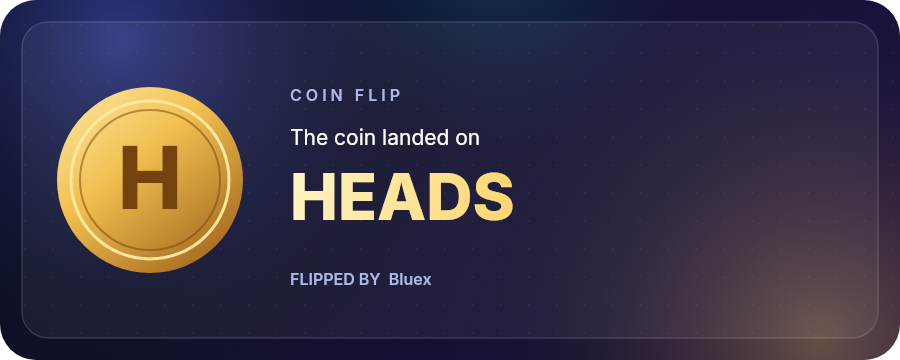
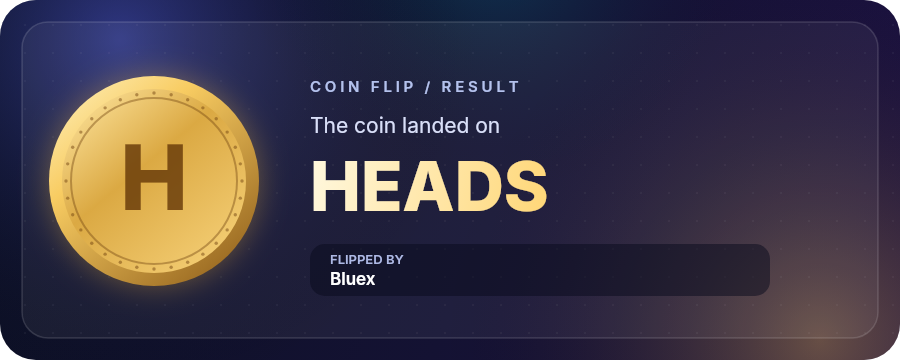
Polish coin flip card and use independent random draws

diff --git a/utils/cards.js b/utils/cards.js
@@ -449,17 +449,39 @@ async function coinFlipCard({ result, username, accent = '#ffc94d' }) {
   if (!canvasLib) return null;
   const canvas = canvasLib.createCanvas(W, H), ctx = canvas.getContext('2d');
   background(ctx, accent);
-  const coin = ctx.createLinearGradient(50, 70, 220, 280);
-  coin.addColorStop(0, '#fff1b3'); coin.addColorStop(0.45, '#f1c051'); coin.addColorStop(1, '#9b5e17');
-  ctx.beginPath(); ctx.arc(150, 180, 93, 0, Math.PI * 2); ctx.fillStyle = coin; ctx.fill();
-  ctx.beginPath(); ctx.arc(150, 180, 79, 0, Math.PI * 2); ctx.strokeStyle = '#ffe7a0'; ctx.lineWidth = 3; ctx.stroke();
-  ctx.beginPath(); ctx.arc(150, 180, 70, 0, Math.PI * 2); ctx.strokeStyle = 'rgba(116,65,13,0.5)'; ctx.lineWidth = 2; ctx.stroke();
-  ctx.textAlign = 'center'; ctx.textBaseline = 'middle'; ctx.fillStyle = '#75420e'; ctx.font = `86px "${FONT.bold}"`; ctx.fillText(result === 'Heads' ? 'H' : 'T', 150, 183); ctx.textAlign = 'left'; ctx.textBaseline = 'alphabetic';
-  ctx.fillStyle = '#aeb9e5'; ctx.font = `16px "${FONT.semi}"`; ctx.fillText('C O I N   F L I P', 290, 101);
-  ctx.fillStyle = '#ffffff'; ctx.font = `21px "${FONT.regular}"`; ctx.fillText('The coin landed on', 290, 145);
-  const gold = ctx.createLinearGradient(290, 160, 610, 225); gold.addColorStop(0, '#fff4c4'); gold.addColorStop(1, '#ffc94d');
-  ctx.fillStyle = gold; ctx.font = `64px "${FONT.bold}"`; ctx.fillText(fitText(ctx, result.toUpperCase(), 475), 290, 220);
-  ctx.fillStyle = '#aeb9e5'; ctx.font = `16px "${FONT.semi}"`; ctx.fillText(`FLIPPED BY  ${fitText(ctx, username, 350)}`, 290, 285);
+
+  // Polished gold coin with a shadow, bevel, dotted edge and distinct faces.
+  ctx.save();
+  ctx.shadowColor = 'rgba(255,190,55,0.34)'; ctx.shadowBlur = 30;
+  ctx.beginPath(); ctx.arc(154, 181, 105, 0, Math.PI * 2);
+  const edge = ctx.createLinearGradient(55, 70, 235, 285);
+  edge.addColorStop(0, '#fff3c2'); edge.addColorStop(0.35, '#f8cc62'); edge.addColorStop(1, '#91601b');
+  ctx.fillStyle = edge; ctx.fill(); ctx.restore();
+
+  ctx.beginPath(); ctx.arc(154, 181, 92, 0, Math.PI * 2);
+  const face = ctx.createLinearGradient(70, 90, 220, 270);
+  face.addColorStop(0, '#ffe7a2'); face.addColorStop(0.45, '#dba943'); face.addColorStop(1, '#f5cf76');
+  ctx.fillStyle = face; ctx.fill();
+  ctx.beginPath(); ctx.arc(154, 181, 83, 0, Math.PI * 2); ctx.strokeStyle = 'rgba(115,70,16,0.42)'; ctx.lineWidth = 2; ctx.stroke();
+  ctx.fillStyle = 'rgba(110,65,15,0.48)';
+  for (let i = 0; i < 32; i++) {
+    const angle = (i * Math.PI * 2) / 32;
+    ctx.beginPath(); ctx.arc(154 + Math.cos(angle) * 88, 181 + Math.sin(angle) * 88, 1.7, 0, Math.PI * 2); ctx.fill();
+  }
+
+  // Letters make both sides unambiguous even when the image is displayed small.
+  ctx.fillStyle = 'rgba(102,57,9,0.82)'; ctx.textAlign = 'center'; ctx.textBaseline = 'middle';
+  ctx.font = `91px "${FONT.bold}"`; ctx.fillText(result === 'Heads' ? 'H' : 'T', 154, 183);
+  ctx.textAlign = 'left'; ctx.textBaseline = 'alphabetic';
+
+  // Result panel: the displayed result always comes from the single toss.
+  ctx.fillStyle = '#b4c2ed'; ctx.font = `15px "${FONT.semi}"`; ctx.fillText('C O I N   F L I P   /   R E S U L T', 310, 92);
+  ctx.fillStyle = '#d9dff8'; ctx.font = `21px "${FONT.regular}"`; ctx.fillText('The coin landed on', 310, 133);
+  const gold = ctx.createLinearGradient(310, 150, 650, 218); gold.addColorStop(0, '#fff8de'); gold.addColorStop(1, '#ffc94d');
+  ctx.fillStyle = gold; ctx.font = `68px "${FONT.bold}"`; ctx.fillText(fitText(ctx, result.toUpperCase(), 460), 310, 211);
+  roundRect(ctx, 310, 244, 460, 52, 15); ctx.fillStyle = 'rgba(8,10,28,0.50)'; ctx.fill();
+  ctx.fillStyle = '#aeb9e5'; ctx.font = `13px "${FONT.semi}"`; ctx.fillText('FLIPPED BY', 330, 264);
+  ctx.fillStyle = '#ffffff'; ctx.font = `17px "${FONT.semi}"`; ctx.fillText(fitText(ctx, username, 400), 330, 285);
   return canvas.encode('png');
 }
 

diff --git a/tests/command-cards.test.js b/tests/command-cards.test.js
@@ -1,5 +1,6 @@
 const test = require('node:test');
 const assert = require('node:assert/strict');
+const crypto = require('node:crypto');
 const cards = require('../utils/cards');
 const db = require('../utils/db');
 const ltc = require('../utils/ltc');
@@ -65,17 +66,40 @@ test('/ltc price uses exactly the fetched rates in both card and embed', async (
   } finally { cards.available = previous.available; cards.ltcPriceCard = previous.fn; ltc.getRates = previous.rates; }
 });
 
-test('/fun coinflip uses the same single toss for card and text', async () => {
-  const previous = { available: cards.available, fn: cards.coinFlipCard, random: Math.random };
+test('/fun coinflip uses one independent toss for both the image and text', async () => {
+  const previous = { available: cards.available, fn: cards.coinFlipCard, randomInt: crypto.randomInt };
   let input, randomCalls = 0;
+  const draws = [0, 1, 1];
   try {
     cards.available = () => true; cards.coinFlipCard = async (data) => { input = data; return fakePng; };
-    Math.random = () => { randomCalls++; return 0.9; };
-    const i = interaction('coinflip'); await fun.execute(i);
-    assert.equal(randomCalls, 1); assert.equal(input.result, 'Tails');
-    assert.match(last(i).embeds[0].data.description, /Tails/);
-    assert.equal(last(i).embeds[0].data.image.url, 'attachment://coinflip.png');
-  } finally { cards.available = previous.available; cards.coinFlipCard = previous.fn; Math.random = previous.random; }
+    crypto.randomInt = (limit) => { assert.equal(limit, 2); randomCalls++; return draws.shift(); };
+    for (const expected of ['Heads', 'Tails', 'Tails']) {
+      const i = interaction('coinflip'); await fun.execute(i);
+      assert.equal(input.result, expected);
+      assert.match(last(i).embeds[0].data.description, new RegExp(expected));
+      assert.equal(last(i).embeds[0].data.image.url, 'attachment://coinflip.png');
+      assert.equal(last(i).embeds[0].data.thumbnail, undefined);
+    }
+    assert.equal(randomCalls, 3); // repeated results are allowed, with no second random call per flip
+  } finally { cards.available = previous.available; cards.coinFlipCard = previous.fn; crypto.randomInt = previous.randomInt; }
+});
+
+test('both coin outcomes survive canvas and attachment failures', async () => {
+  const previous = { available: cards.available, fn: cards.coinFlipCard, randomInt: crypto.randomInt };
+  const oldWarn = console.warn;
+  try {
+    console.warn = () => {};
+    cards.available = () => false; crypto.randomInt = () => 0;
+    const heads = interaction('coinflip'); await fun.execute(heads);
+    assert.match(last(heads).embeds[0].data.description, /Heads/);
+    assert.equal(last(heads).files, undefined);
+    cards.available = () => true; cards.coinFlipCard = async () => fakePng; crypto.randomInt = () => 1;
+    const tails = interaction('coinflip'); let attempts = 0;
+    tails.editReply = async (p) => { if (++attempts === 1) throw Error('missing Attach Files'); tails.responses.push(p); };
+    await fun.execute(tails);
+    assert.equal(attempts, 2); assert.match(last(tails).embeds[0].data.description, /Tails/);
+    assert.equal(last(tails).embeds[0].data.image, undefined);
+  } finally { cards.available = previous.available; cards.coinFlipCard = previous.fn; crypto.randomInt = previous.randomInt; console.warn = oldWarn; }
 });
 
 test('embed fallback works when optional canvas is missing for all three', async () => {

diff --git a/commands/fun.js b/commands/fun.js
@@ -2,6 +2,7 @@
  * /fun 8ball <question> | coinflip | dice [sides] | choose <options>
  */
 const { SlashCommandBuilder, InteractionContextType } = require('discord.js');
+const crypto = require('node:crypto');
 const embeds = require('../utils/embeds');
 const cards = require('../utils/cards');
 const branding = require('../utils/branding');
@@ -26,8 +27,9 @@ module.exports = {
 
     if (sub === '8ball') return reply('🎱 Magic 8-Ball', `**Q:** ${interaction.options.getString('question', true)}\n**A:** ${pick(ANSWERS)}`);
     if (sub === 'coinflip') {
-      const result = pick(['Heads', 'Tails']);
-      const embed = embeds.make(interaction, { color: embeds.COLORS.gold, title: '🪙 Coin Flip', description: `It landed on **${result}**!` });
+      // One unbiased, independent draw per command; repeats are possible.
+      const result = crypto.randomInt(2) === 0 ? 'Heads' : 'Tails';
+      const embed = embeds.make(interaction, { color: embeds.COLORS.gold, title: '🪙 Coin Flip', description: `It landed on **${result}**!`, thumbnail: false });
       let png = null;
       if (cards.available()) {
         await interaction.deferReply();

diff --git a/README.md b/README.md
@@ -259,12 +259,14 @@ Settings and data of these features are stored in `data/*.json` (created automat
 ![Rank card](assets/preview/rank.png)
 ![Bot information card](assets/preview/bot-info.png)
 ![Litecoin price card](assets/preview/ltc-price.png)
-![Coin flip card](assets/preview/coinflip.png)
+![Coin flip heads card](assets/preview/coinflip.png)
+![Coin flip tails card](assets/preview/coinflip-tails.png)
 
 Preview values are illustrative, not live prices.
 
 - Drawn with `@napi-rs/canvas` (installed by `npm install`, no system packages needed). The Inter font is bundled in `assets/fonts`, so it also works on a VPS without any fonts.
 - If the package cannot be installed, these commands fall back to their normal embed. The three new cards also retry with an embed if an attachment cannot be sent. LTC prices use the existing provider and can be cached for up to 60 seconds.
+- Coin flips use one independent 50/50 draw for each command; consecutive identical results are possible. The image and text always show the same result.
 - Names are drawn with Latin/Greek/Cyrillic letters only; emojis and other scripts are left out of the image.
 
 ---
